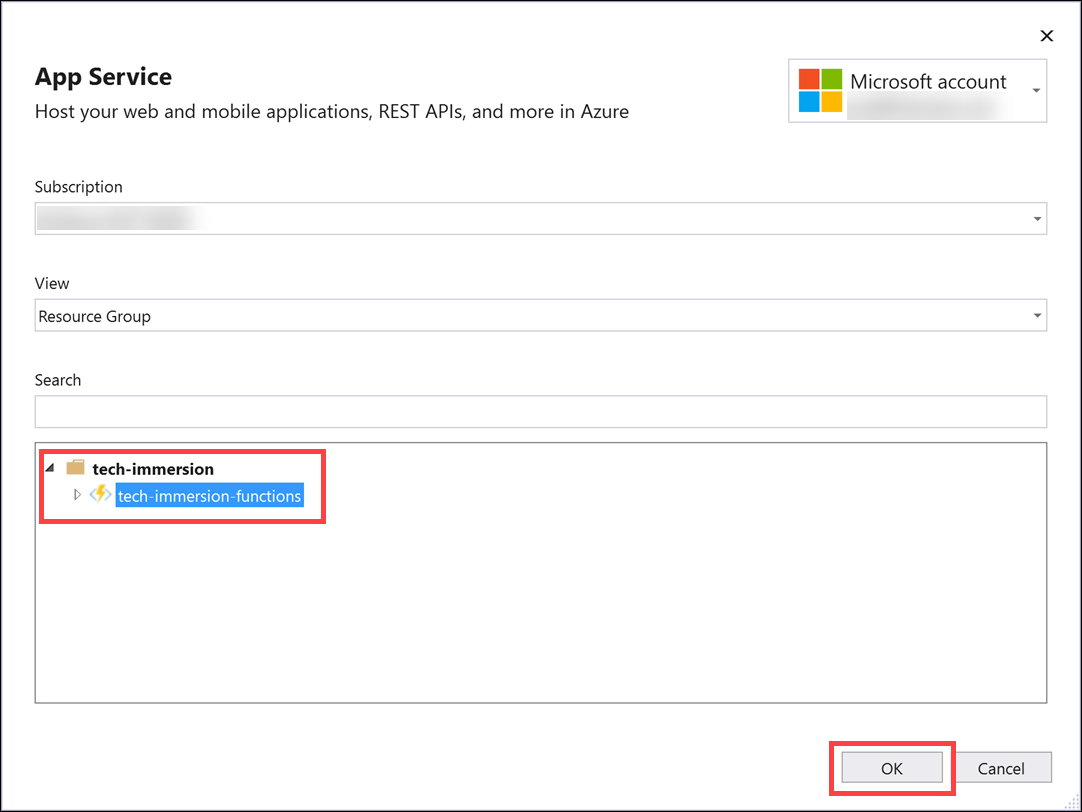
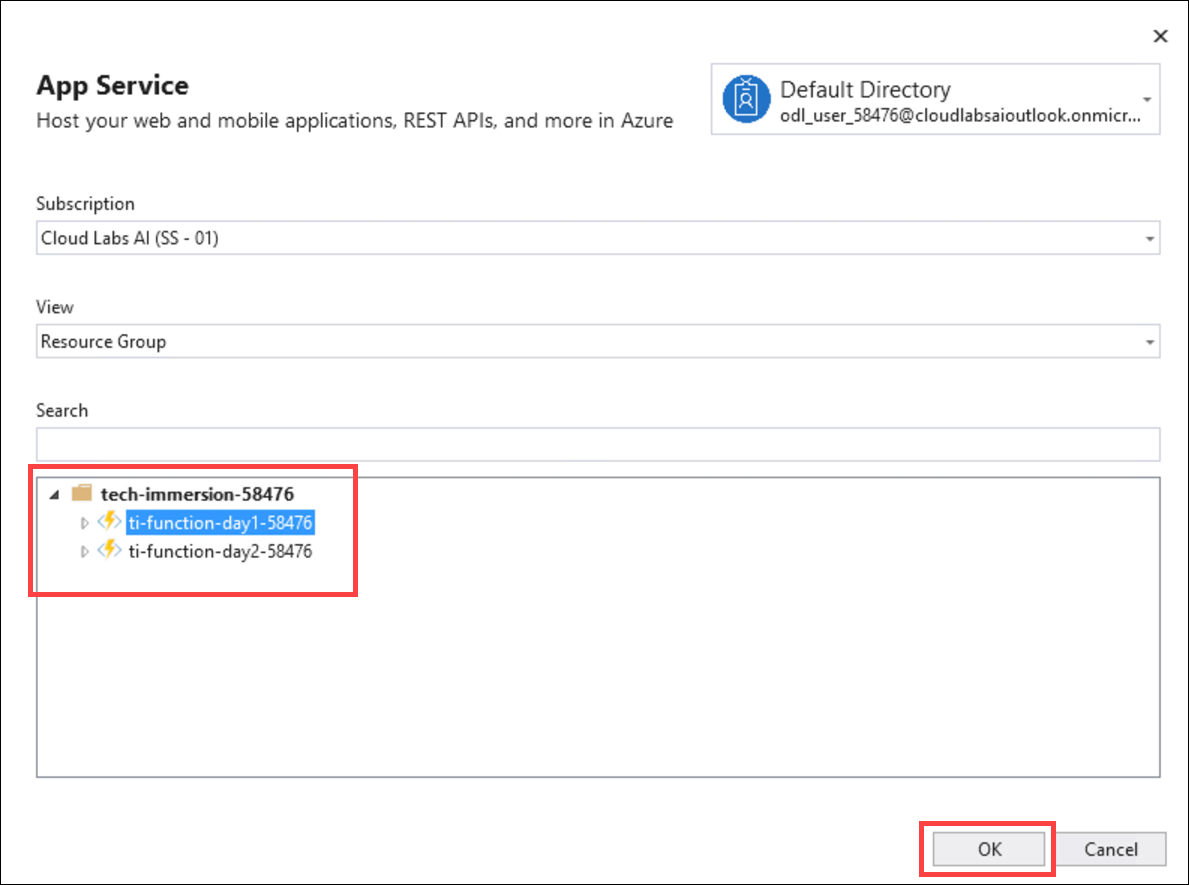
Lab instructions update

diff --git a/day1-exp2/README.md b/day1-exp2/README.md
@@ -138,11 +138,15 @@ In this task, you will create a new Cosmos DB database and collection, set the t
 
     ![The Data Explorer link located in the left-hand menu is highlighted.](media/cosmos-db-data-explorer-link.png 'Data Explorer link')
 
-5.  Select **New Collection** in the top toolbar.
+5.  If the ContosoAuto database and telemetry collection already exist, **skip ahead** to step 9.
+
+    ![Screenshot shows the database and collection already exists.](media/cosmos-db-database-exists.png 'Data Explorer')
+
+6.  Select **New Collection** in the top toolbar.
 
     ![The New Collection link in the top toolbar is highlighted.](media/cosmos-db-new-collection-link.png 'New Collection link')
 
-6.  In the **Add Collection** blade, configure the following:
+7.  In the **Add Collection** blade, configure the following:
 
     - **Database id:** Select **Create new**, then enter "ContosoAuto" for the id.
     - **Provision database throughput:** Unchecked.
@@ -156,17 +160,17 @@ In this task, you will create a new Cosmos DB database and collection, set the t
 
     On the subject of partitions, choosing an appropriate partition key for Cosmos DB is a critical step for ensuring balanced reads and writes, scaling, and, in this case, in-order change feed processing per partition. While there are no limits, per se, on the number of logical partitions, a single logical partition is allowed an upper limit of 10 GB of storage. Logical partitions cannot be split across physical partitions. For the same reason, if the partition key chosen is of bad cardinality, you could potentially have skewed storage distribution. For instance, if one logical partition becomes larger faster than the others and hits the maximum limit of 10 GB, while the others are nearly empty, the physical partition housing the maxed out logical partition cannot split and could cause an application downtime. This is why we specified `vin` as the partition key. It has good cardinality for this data set.
 
-7.  Select **OK** on the bottom of the form when you are finished entering the values.
+8.  Select **OK** on the bottom of the form when you are finished entering the values.
 
-8.  Select **Firewall and virtual networks** from the left-hand menu, then select Allow access from **All networks**. Select **Save**. This will allow the vehicle telemetry generator application to send data to your Cosmos DB collection. Select **Save**.
+9.  Select **Firewall and virtual networks** from the left-hand menu, then select Allow access from **All networks**. Select **Save**. This will allow the vehicle telemetry generator application to send data to your Cosmos DB collection. Select **Save**.
 
     ![The All networks option is selected within the Firewall and virtual networks blade.](media/cosmos-db-firewall.png 'Firewall and virtual networks')
 
-9.  Select **Keys** from the left-hand menu.
+10. Select **Keys** from the left-hand menu.
 
     ![The Keys link on the left-hand menu is highlighted.](media/cosmos-db-keys-link.png 'Keys link')
 
-10. Copy the **Primary Connection String** value by selecting the copy button to the right of the field. **SAVE THIS VALUE** in Notepad or similar text editor for later.
+11. Copy the **Primary Connection String** value by selecting the copy button to the right of the field. **SAVE THIS VALUE** in Notepad or similar text editor for later.
 
     ![The Primary Connection String key is copied.](media/cosmos-db-keys.png 'Keys')
 
@@ -245,11 +249,7 @@ In this task, you will create and configure a new event hub within the provided 
 
 15. Select **Create** on the bottom of the form when you are finished entering the values.
 
-16. Select your **Read** policy from the list. Copy the **Connection string - primary key** value by selecting the Copy button to the right of the field. **SAVE THIS VALUE** in Notepad or similar text editor for later.
-
-    ![The Read policy is selected and its blade displayed. The Copy button next to the Connection string - primary key field is highlighted.](media/event-hubs-read-policy-key.png 'SAS Policy: Read')
-
-17. Now select your **Write** policy from the list. Copy the **Connection string - primary key** value by selecting the Copy button to the right of the field. **SAVE THIS VALUE** in Notepad or similar text editor for later.
+16. Select your **Write** policy from the list. Copy the **Connection string - primary key** value by selecting the Copy button to the right of the field. **SAVE THIS VALUE** in Notepad or similar text editor for later.
 
     ![The Write policy is selected and its blade displayed. The Copy button next to the Connection string - primary key field is highlighted.](media/event-hubs-write-policy-key.png 'SAS Policy: Write')
 
@@ -430,7 +430,7 @@ In this task, you will configure the Function App with the Azure Cosmos DB and E
 
     ![The tech-immersion resource group is selected.](media/tech-immersion-rg.png 'Resource groups')
 
-3.  Select the **App Service** (Azure Function App) from the list of resources in your resource group.
+3.  Select the **App Service** (Azure Function App) that includes **day1** in its name from the list of resources in your resource group.
 
     ![The App Service Function App is selected in the resource group.](media/tech-immersion-rg-function-app.png 'tech-immersion resource group')
 
@@ -442,13 +442,13 @@ In this task, you will configure the Function App with the Azure Cosmos DB and E
 
     ![The Add new setting link is highlighted on the bottom of the Application settings section.](media/function-app-app-settings-new-link.png 'Application settings')
 
-6.  Enter **CosmosDbConnectionString** into the **Name** field, then paste your Cosmos DB connection string into the **Value** field. If you cannot locate your connection string, refer to Task 1, step 10.
+6.  Enter `CosmosDbConnectionString` into the **Name** field, then paste your Cosmos DB connection string into the **Value** field. If you cannot locate your connection string, refer to Task 1, step 10.
 
     ![The CosmosDbConnectionString name and value pair has been added and is highlighted.](media/function-app-app-settings-cosmos-db.png 'Application settings')
 
 7.  Select **Add new setting** underneath the new application setting you just added to add a new one.
 
-8.  Enter **EventHubsConnectionString** into the **Name** field, then paste your Event Hubs connection string into the **Value** field. This is the connection string for the **Write** shared access policy you created. If you cannot locate your connection string, refer to Task 2, step 17.
+8.  Enter `EventHubsConnectionString` into the **Name** field, then paste your Event Hubs connection string into the **Value** field. This is the connection string for the **Write** shared access policy you created. If you cannot locate your connection string, refer to Task 2, step 17.
 
     ![The EventHubsConnectionString name and value pair has been added and is highlighted.](media/function-app-app-settings-event-hubs.png 'Application settings')
 
@@ -484,13 +484,13 @@ In this task, you will open the lab solution in Visual Studio, publish the Funct
 
     ![The Select Existing radio button and Publish button are highlighted.](media/vs-publish-target.png 'Pick a publish target')
 
-5.  In the App Service dialog that follows, make sure your Azure **Subscription** for this lab is selected, then find and expand the **tech-immersion-YOUR_UNIQUE_IDENTIFIER** resource group. Select your Function App, then click **OK** on the bottom of the dialog window
+5.  In the App Service dialog that follows, make sure your Azure **Subscription** for this lab is selected, then find and expand the **tech-immersion-YOUR_UNIQUE_IDENTIFIER** resource group. Select your Function App that includes **day1** in its name, then click **OK** on the bottom of the dialog window
 
     ![The Function App and OK button are highlighted.](media/vs-publish-app-service.png 'App Service')
 
 6.  The Function App will start publishing in a moment. You can watch the output window for the publish status. When it is done publishing, you should see a "Publish completed" message on the bottom of the output window.
 
-    ![The Publish Succeeded and Publish Completed messages are highlighted in the output window.](media/vs-publish-output.png 'Publish output')
+    ![The Publish Succeeded and Publish Completed messages are highlighted in the output window.](media/vs-publish-output.png 'Publish output') ![](media/vs-publish-output.png)
 
 7.  Expand the **TransactionGenerator** project within the Solution Explorer, then double-click on **appsettings.json** to open it.
 
